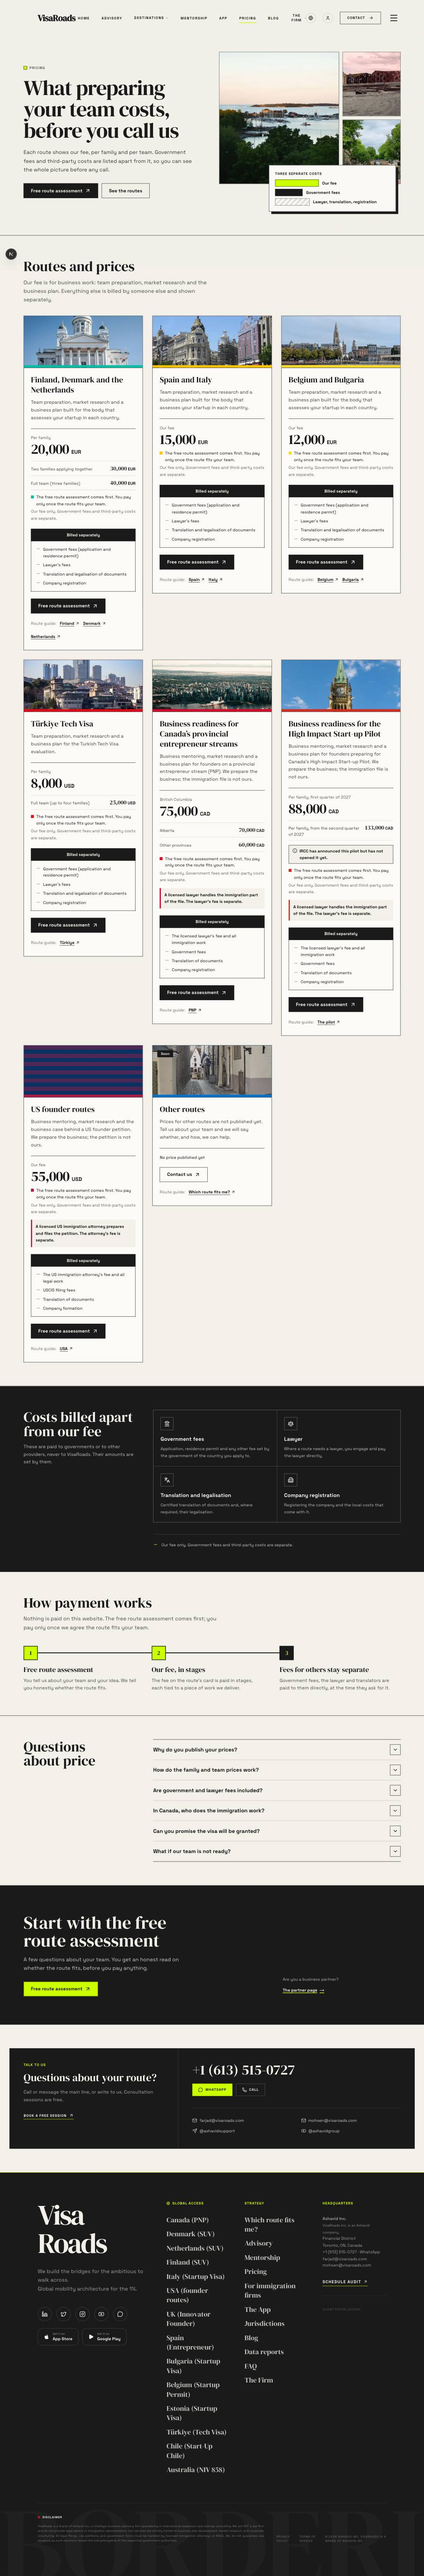
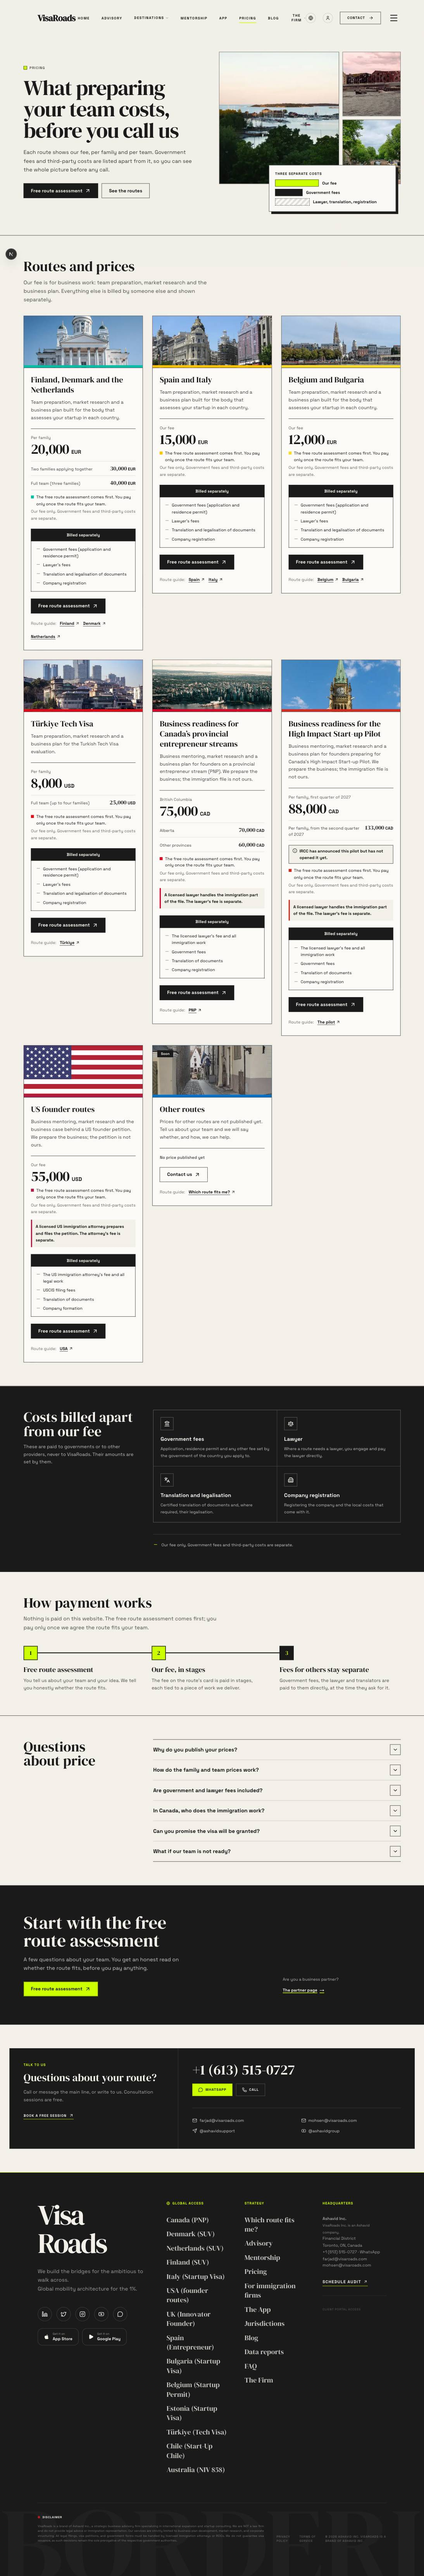
Pricing: real US flag on the US card (no more stripes) (#126)
* fix(pricing): the US card shows the real US flag, not stripes

The photo-less header was a repeating gradient in the route's colours and
read as a wrong flag. components/route/flags.tsx gains 'us', drawn to
Executive Order 10834 (1.9:1, 13 stripes, 7/13 canton, 50 stars in 9 rows),
reusable on other pages. A card with no photo now shows its flag; the
stripes fallback is gone. Only the US card had no photo.

* docs(pricing): screenshots with the US flag

---------

Changed region(s): [[0.0311, 0.4051, 0.3419, 0.4363]]

diff --git a/components/route/flags.tsx b/components/route/flags.tsx
@@ -8,7 +8,7 @@
 // ============================================================================
 import React from 'react';
 
-export type FlagCode = 'fi' | 'dk' | 'it' | 'nl' | 'tr' | 'au' | 'ca' | 'ae' | 'ee' | 'es' | 'bg' | 'be' | 'cl';
+export type FlagCode = 'fi' | 'dk' | 'it' | 'nl' | 'tr' | 'au' | 'ca' | 'ae' | 'ee' | 'es' | 'bg' | 'be' | 'cl' | 'us';
 
 export interface FlagDef {
   name: string;
@@ -19,6 +19,19 @@ export interface FlagDef {
 
 // Australia: Union Jack canton, Commonwealth Star, Southern Cross.
 const STAR7 = 'M0,-360 69.421398,-144.155019 281.459334,-224.456329 155.988466,-35.603349 350.974048,80.107536 125.093037,99.758368 156.198146,324.348792 0,160 -156.198146,324.348792 -125.093037,99.758368 -350.974048,80.107536 -155.988466,-35.603349 -281.459334,-224.456329 -69.421398,-144.155019z';
+/** A unit five-pointed star (outer radius 1), point up, centred on the origin. */
+const STAR_UNIT = 'M0.0000,-1.0000 0.2245,-0.3090 0.9511,-0.3090 0.3633,0.1180 0.5878,0.8090 0.0000,0.3820 -0.5878,0.8090 -0.3633,0.1180 -0.9511,-0.3090 -0.2245,-0.3090Z';
+
+/**
+ * United States, Executive Order 10834 (1959): hoist 1, fly 1.9; 13 stripes;
+ * canton 7/13 of the hoist high and 0.76 wide; 50 stars of diameter 0.0616
+ * in 9 rows, alternately 6 and 5, spaced 0.054 vertically and 0.063
+ * horizontally. Drawn with the hoist = 1300 units. Old Glory Red and Blue.
+ */
+const US_STARS: [number, number][] = Array.from({ length: 9 }, (_, row) =>
+  Array.from({ length: row % 2 === 0 ? 6 : 5 }, (_, i) => [81.9 * (row % 2 === 0 ? 2 * i + 1 : 2 * i + 2), 70.2 * (row + 1)] as [number, number]),
+).flat();
+
 const STAR5 = 'M0,-210 54.859957,-75.508253 199.721868,-64.893569 88.765275,28.841586 123.434903,169.893569 0,93.333333 -123.434903,169.893569 -88.765275,28.841586 -199.721868,-64.893569 -54.859957,-75.508253z';
 
 export const FLAGS: Record<FlagCode, FlagDef> = {
@@ -187,6 +200,23 @@ export const FLAGS: Record<FlagCode, FlagDef> = {
   // Chile, Decreto 1534 (1967): 3:2; two equal bands, white over red; a
   // square blue canton as tall as the white band; a white five-pointed star
   // centred in it whose circumscribed circle is half the canton's side.
+  us: {
+    name: 'the United States',
+    w: 2470,
+    h: 1300,
+    draw: () => (
+      <>
+        <rect width="2470" height="1300" fill="#B22234" />
+        <path d="M0,150H2470M0,350H2470M0,550H2470M0,750H2470M0,950H2470M0,1150H2470" stroke="#fff" strokeWidth="100" />
+        <rect width="988" height="700" fill="#3C3B6E" />
+        <g fill="#fff">
+          {US_STARS.map(([x, y]) => (
+            <path key={`${x}-${y}`} d={STAR_UNIT} transform={`translate(${x} ${y}) scale(40.04)`} />
+          ))}
+        </g>
+      </>
+    ),
+  },
   cl: {
     name: 'Chile',
     w: 60,

diff --git a/components/pricing/PriceCard.tsx b/components/pricing/PriceCard.tsx
@@ -18,6 +18,7 @@ import type { GroupView } from '@/lib/pricing/resolve';
 import type { RouteTheme } from '@/components/route/RouteProgress';
 import { CANADA_KEYS, legalLine, type CardChrome } from '@/lib/pricing/chrome';
 import { TBD } from '@/lib/pricing/types';
+import { FLAGS, FlagShapes, type FlagCode } from '@/components/route/flags';
 import { PricingCta, Txt } from './Tracked';
 
 export default function PriceCard({
@@ -28,6 +29,7 @@ export default function PriceCard({
   guides,
   prices,
   currency,
+  flag,
 }: {
   g: GroupView;
   locale: string;
@@ -37,6 +39,8 @@ export default function PriceCard({
   /** Pre-formatted on the server ('20,000' / '۲۰٬۰۰۰'); null amount = TBD, dev only. */
   prices: { label: string; amount: string | null }[];
   currency: { name: string; code: string };
+  /** Drawn as the header when the group has no photograph. */
+  flag?: FlagCode;
 }) {
   const isRtl = locale === 'fa';
   const display = isRtl ? 'font-estedad font-black' : 'font-serif';
@@ -62,13 +66,12 @@ export default function PriceCard({
       className={`group relative flex scroll-mt-28 flex-col border border-[#1a1a1a] bg-[#FBFAF6] shadow-[0_0_0_#1a1a1a] transition-[transform,box-shadow] duration-300 ease-out hover:shadow-[8px_8px_0_#1a1a1a] focus-within:shadow-[8px_8px_0_#1a1a1a] motion-safe:hover:-translate-x-1 motion-safe:hover:-translate-y-1 ${soon ? 'md:col-span-2 xl:col-span-1' : ''}`}
     >
       <div className="relative h-44 overflow-hidden border-b border-[#1a1a1a]" style={{ backgroundColor: theme.primary }}>
-        {!g.image && (
-          // No credited photograph for this route: stripes in its own colours, drawn in code.
-          <span
-            aria-hidden
-            className="absolute inset-0 opacity-40"
-            style={{ backgroundImage: `repeating-linear-gradient(180deg, ${theme.accent} 0 14px, transparent 14px 28px)` }}
-          />
+        {!g.image && flag && (
+          // No credited photograph for this route: its flag, drawn in code to the official spec.
+          // Anchored top-left so the canton is never cropped; the extra fly is cut on the right.
+          <svg viewBox={`0 0 ${FLAGS[flag].w} ${FLAGS[flag].h}`} preserveAspectRatio="xMinYMin slice" className="absolute inset-0 h-full w-full" role="img" aria-label={g.imageAlt || `Flag of ${FLAGS[flag].name}`}>
+            <FlagShapes code={flag} uid={`card-${g.key}`} />
+          </svg>
         )}
         {g.image && (
           <Image

diff --git a/lib/pricing/chrome.ts b/lib/pricing/chrome.ts
@@ -7,6 +7,7 @@
 // ============================================================================
 import { themeFor } from '@/components/fa/faThemes';
 import type { RouteTheme } from '@/components/route/RouteProgress';
+import type { FlagCode } from '@/components/route/flags';
 import type { PricingLocale } from './types';
 
 /** Canada's cards carry the lawyer line and the deliverable-only milestones note. */
@@ -70,7 +71,7 @@ export type CardChrome = Omit<Chrome, 'tbdBanner'>;
 
 type Guide = { label: string; href: string };
 
-const META: Record<string, { theme: RouteTheme; guides: Record<PricingLocale, Guide[]> }> = {
+const META: Record<string, { theme: RouteTheme; guides: Record<PricingLocale, Guide[]>; flag?: FlagCode }> = {
   'eu-nordic': {
     theme: themeFor('/europe/finland'),
     guides: {
@@ -98,13 +99,13 @@ const META: Record<string, { theme: RouteTheme; guides: Record<PricingLocale, Gu
     theme: themeFor('/canada-startup-visa'),
     guides: { en: [{ label: 'The pilot', href: '/high-impact-startup-pilot' }], fa: [{ label: 'پایلوت', href: '/high-impact-startup-pilot' }] },
   },
-  'us-founder': { theme: themeFor('/usa'), guides: { en: [{ label: 'USA', href: '/country/usa' }], fa: [{ label: 'آمریکا', href: '/usa' }] } },
+  'us-founder': { theme: themeFor('/usa'), flag: 'us', guides: { en: [{ label: 'USA', href: '/country/usa' }], fa: [{ label: 'آمریکا', href: '/usa' }] } },
   'other-routes': { theme: themeFor('/europe/estonia'), guides: { en: [{ label: 'Which route fits me?', href: '/which-path' }], fa: [{ label: 'کدام مسیر برای من؟', href: '/which-path' }] } },
 };
 
-export function groupMeta(key: string, locale: PricingLocale): { theme: RouteTheme; guides: Guide[] } {
+export function groupMeta(key: string, locale: PricingLocale): { theme: RouteTheme; guides: Guide[]; flag?: FlagCode } {
   const m = META[key];
-  return m ? { theme: m.theme, guides: m.guides[locale] } : { theme: themeFor(''), guides: [] };
+  return m ? { theme: m.theme, guides: m.guides[locale], flag: m.flag } : { theme: themeFor(''), guides: [] };
 }
 
 /** The fixed legal line a card must carry, if any. */

diff --git a/lib/__tests__/flag-us.test.ts b/lib/__tests__/flag-us.test.ts
@@ -1,0 +1,29 @@
+// The US flag drawn in components/route/flags.tsx must be the real one
+// (Executive Order 10834): a placeholder of stripes once read as "the wrong
+// flag" on the pricing page.
+import { describe, it, expect } from 'vitest';
+import React from 'react';
+import { renderToStaticMarkup } from 'react-dom/server';
+import { FLAGS } from '@/components/route/flags';
+
+describe('US flag', () => {
+  const svg = renderToStaticMarkup(React.createElement(React.Fragment, null, FLAGS.us.draw('t')));
+
+  it('has the 1.9 proportion', () => {
+    expect(FLAGS.us.w / FLAGS.us.h).toBeCloseTo(1.9, 5);
+  });
+
+  it('has 50 stars', () => {
+    expect(svg.match(/scale\(40\.04\)/g)).toHaveLength(50);
+  });
+
+  it('has 13 stripes: red field, six white stripes 1/13 high', () => {
+    expect(svg).toContain('fill="#B22234"');
+    expect(svg.match(/M0,\d+H2470/g)).toHaveLength(6);
+    expect(svg).toContain('stroke-width="100"');
+  });
+
+  it('has a canton 7/13 high and 0.76 of the hoist wide, in Old Glory Blue', () => {
+    expect(svg).toContain('<rect width="988" height="700" fill="#3C3B6E"');
+  });
+});

diff --git a/components/pricing/PricingPage.tsx b/components/pricing/PricingPage.tsx
@@ -135,6 +135,7 @@ export default function PricingPage({ locale, groups, copy, showDrafts }: { loca
                   chrome={cardChrome}
                   theme={meta.theme}
                   guides={meta.guides}
+                  flag={meta.flag}
                   prices={g.prices.map((p) => ({ label: p.label, amount: p.amount ? num(p.amount) : null }))}
                   currency={{ name: CURRENCY_NAME[locale][g.currency], code: g.currency }}
                 />

diff --git a/lib/pricing/defaults.ts b/lib/pricing/defaults.ts
@@ -208,7 +208,7 @@ export const DEFAULT_PRICING: PricingDoc = {
       duration: { en: TBD, fa: TBD },
       note: { en: '', fa: '' },
       ctaLabel: { en: 'Free route assessment', fa: 'ارزیابی رایگان مسیر' },
-      imageAlt: { en: '', fa: '' },
+      imageAlt: { en: 'Flag of the United States', fa: 'پرچم ایالات متحده' },
     },
     {
       key: 'other-routes',
